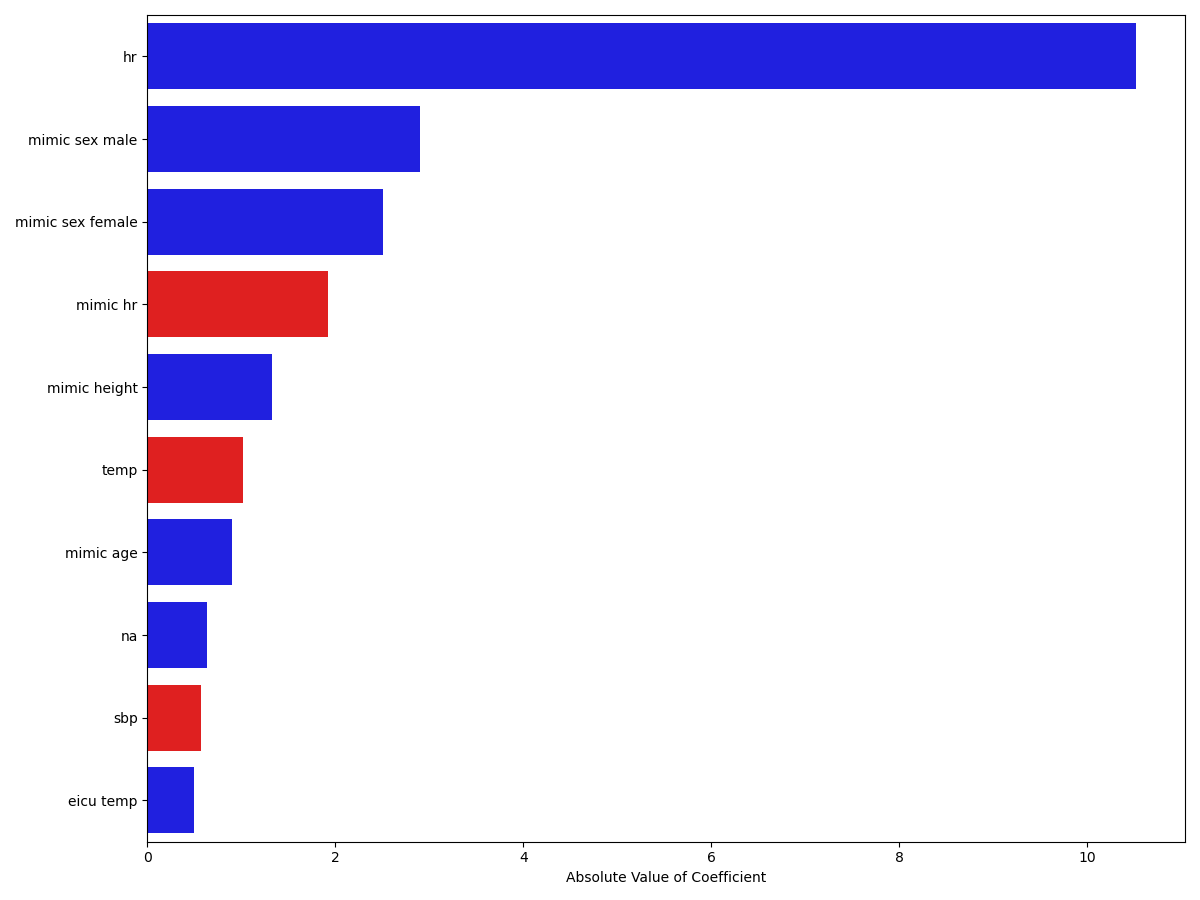
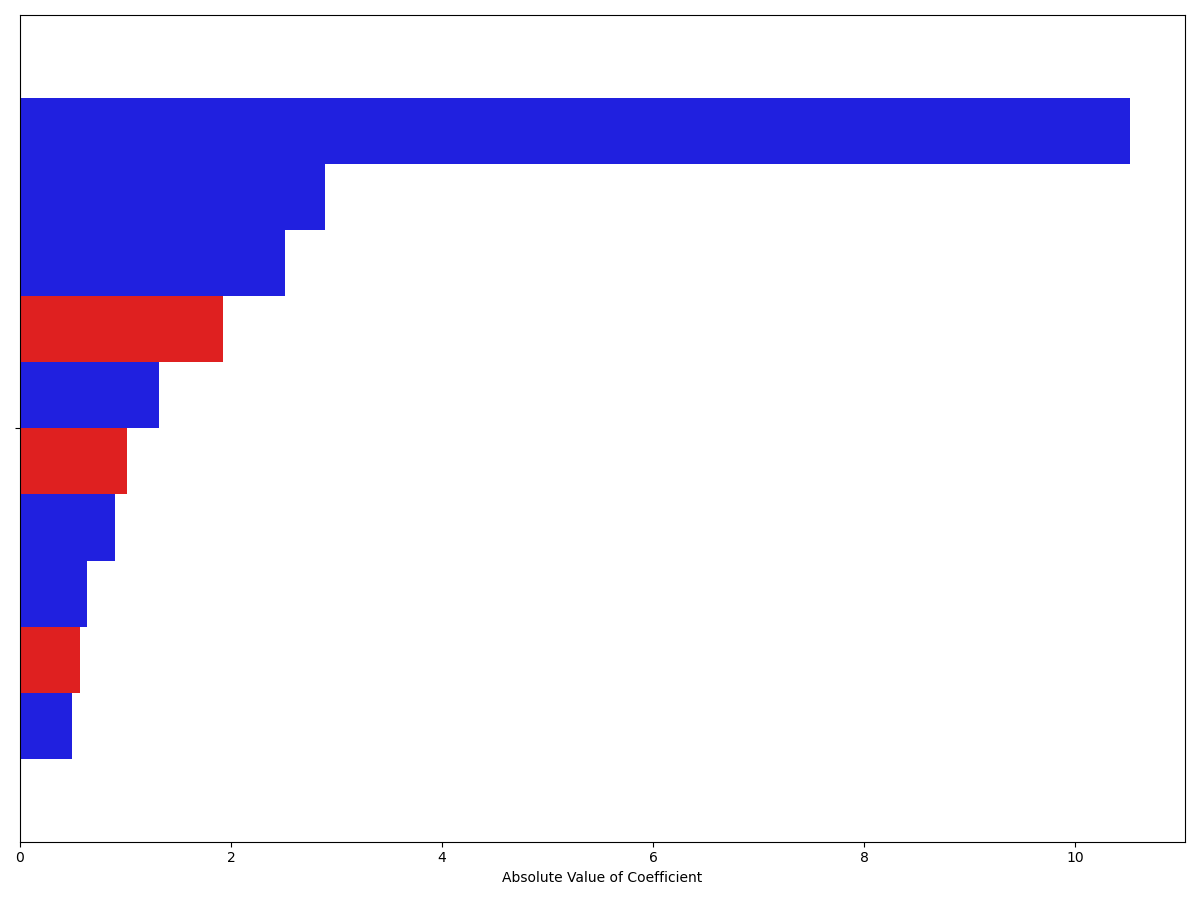
fix merge conflict

Changed region(s): [[0.0, 0.0, 0.9558, 0.9333], [0.4317, 0.9644, 0.6475, 0.9956], [0.8942, 0.9333, 0.925, 0.9644]]

diff --git a/Feature Selection/DSL_profiles.py b/Feature Selection/DSL_profiles.py
@@ -1,6 +1,7 @@
 '''
     This code calculates and plots the Data Shared Lasso profiles of predictor variables when using outcome as response variable.
     The profiles of the shared effects are plotted and sepearetly the profiles of the group estimates.
+    Running this code requires CATEGORICAL_COLUMNS = ['sex', 'source'] in constants.py
 '''
 
 import sys
@@ -12,36 +13,33 @@ import numpy as np
 import pandas as pd
 import matplotlib.pyplot as plt
 
-from sklearn.linear_model import lars_path, LinearRegression
 from sklearn.compose import ColumnTransformer
-from sklearn.model_selection import GridSearchCV
 from sklearn.preprocessing import PolynomialFeatures
+from sklearn.linear_model import lars_path
 from sklearn.pipeline import Pipeline
 
-from preprocessing import make_feature_preprocessing
 from constants import CATEGORICAL_COLUMNS
 from icu_experiments.load_data import load_data_for_prediction
+from preprocessing import make_feature_preprocessing
 
-outcome = 'map'
+outcome = 'hr'
 method = 'lasso'
 
 data = load_data_for_prediction(outcome=outcome)
-
 _Xydata = {source: data[source]['train'][lambda x: (x['sex'].eq('Male'))|(x['sex'].eq('Female'))] for source in ['eicu', 'mimic', 'miiv', 'hirid']}
 
+# Preprocessing of individual groups
 Preprocessor = ColumnTransformer(
     transformers=make_feature_preprocessing(missing_indicator=False)
     ).set_output(transform="pandas")
 
 _Xytrain = pd.concat([_Xydata[source] for source in ['eicu', 'mimic', 'miiv', 'hirid']], ignore_index=True)
-
+_Xtrain = pd.concat([Preprocessor.fit_transform(_Xydata[source]) for source in ['eicu', 'mimic', 'miiv', 'hirid']], ignore_index=True)
+_Xtrain.fillna(0, inplace=True)
 _ytrain = _Xytrain['outcome']
 y_mean = _ytrain.mean()
-_Xtrain = Preprocessor.fit_transform(_Xytrain)
-'''
-_Xtrain = pd.concat([Preprocessor.fit_transform(_Xydata[source]) for source in ['eicu', 'mimic', 'miiv', 'hirid']], ignore_index=True)
-_Xtrain.fillna(0, inplace=True)'''
 
+# Start generating the augmented dataset
 interactions = ColumnTransformer(
     [
         (
@@ -77,36 +75,35 @@ interactions = ColumnTransformer(
     ]
 )
 
-pipeline = Pipeline(
-    steps=[("interactions", interactions)]
-    ).set_output(transform="pandas")
+_Xtrain_augmented = interactions.fit_transform(_Xtrain) 
 
-_Xtrain_augmented = pipeline.fit_transform(_Xtrain) 
-
-r = 1/np.sqrt(len(['eicu', 'mimic', 'miiv', 'hirid']))
+# Control degree of sharing
+r_g = {source: len(_Xydata[source])/len(_Xtrain) for source in ['eicu', 'mimic', 'miiv', 'hirid']}
 
 for column in _Xtrain_augmented.columns: 
     if 'passthrough' not in column: 
-        _Xtrain_augmented[column] = r*_Xtrain_augmented[column]
+        if 'eicu' in column: 
+            _Xtrain_augmented[column] = 1/np.sqrt(r_g['eicu'])*_Xtrain_augmented[column]
+        elif 'mimic' in column:
+            _Xtrain_augmented[column] = 1/np.sqrt(r_g['mimic'])*_Xtrain_augmented[column]
+        elif 'miiv' in column:
+            _Xtrain_augmented[column] = 1/np.sqrt(r_g['miiv'])*_Xtrain_augmented[column]
+        elif 'hirid' in column: 
+            _Xtrain_augmented[column] = 1/np.sqrt(r_g['hirid'])*_Xtrain_augmented[column]
     
-
-
+# Calculate the Lasso profiles
 print(f"Computing regularization path using LARS on DSL ...")
 alphas, active, coefs = lars_path(_Xtrain_augmented.to_numpy(), _ytrain.to_numpy() - y_mean, method=method, verbose=True)
 
-coefs_shared = coefs[:51, :]
-
+# Print and plot Lasso path of common effects against shrinkage factor
+coefs_shared = coefs[:51, :] # shared effects
 fig, ax = plt.subplots(figsize=(15,9))
-
 xx = np.sum(np.abs(coefs_shared.T), axis=1)
 xx /= xx[-1]
-
 feature_indices = np.argsort(np.abs(coefs_shared[:, -1]))[-4:]
 feature_names = [list(_Xtrain_augmented.columns)[i] for i in feature_indices]
 xmax = max(xx)
-    
 print('common effects: ', feature_names)
-
 ax.plot(xx, coefs_shared.T)
 ymin, ymax = ax.get_ylim()
 ax.vlines(xx, ymin, ymax, linestyle="dashed", alpha=0.1)
@@ -114,31 +111,24 @@ ax.set_xlabel("|coef| / max|coef|")
 ax.set_ylabel("Coefficients")
 ax.set_title(f"LASSO Path of shared coeffs in DSL")
 ax.axis("tight")
-
 fig.suptitle(f"Target: {outcome}", fontweight='bold', fontsize=15)
 plt.tight_layout()  # Adjust the layout
-plt.savefig('images/common_effects_DSL_preprocessed_individ.png')
+plt.savefig(f'images/{outcome}_common_effects_DSL_preprocessed_individ.png')
 plt.show()
 plt.close()
 
+# Print and plot Lasso path of group effects against shrinkage factor
 fig, axs = plt.subplots(2, 2, figsize=(15,9))
-
 for i, source in enumerate(['eicu', 'mimic', 'miiv', 'hirid']): 
-
     _coefs = coefs[(1+i)*51:(2+i)*51, :]
-
     row, col = divmod(i, 2)
     ax = axs[row, col]
-
     xx = np.sum(np.abs(_coefs.T), axis=1)
     xx /= xx[-1]
-
     feature_indices = np.argsort(np.abs(_coefs[:, -1]))[-4:]
     feature_names = [list(_Xtrain_augmented.iloc[:, (1+i)*51:(2+i)*51].columns)[j] for j in feature_indices]
     xmax = max(xx)
-        
     print(f'{source} effects: ', feature_names)
-
     ax.plot(xx, _coefs.T)
     ymin, ymax = ax.get_ylim()
     ax.vlines(xx, ymin, ymax, linestyle="dashed", alpha=0.1)
@@ -146,8 +136,7 @@ for i, source in enumerate(['eicu', 'mimic', 'miiv', 'hirid']):
     ax.set_ylabel("Coefficients")
     ax.set_title(f"LASSO Path of DSL on {source}")
     ax.axis("tight")
-
 fig.suptitle(f"Target: {outcome}", fontweight='bold', fontsize=15)
 plt.tight_layout()  # Adjust the layout
-plt.savefig('images/individual_groups_DSL_preprocessed_individ.png')
+plt.savefig(f'images/{outcome}_individual_groups_DSL_preprocessed_individ.png')
 plt.show()

diff --git a/Feature Selection/profiles.py b/Feature Selection/profiles.py
@@ -1,7 +1,9 @@
-''' This code calculates and plots the Lasso profiles of predictor variables when using outcome as response variable. 
+''' 
+    This code calculates and plots the Lasso profiles of predictor variables when using outcome as response variable. 
     The names of the four most important features are included in the plot.
     A figure containing the profiles on each data source will be shown at the end. Moreover, the profiles are shown when we 
-    use all data sources at once. 
+    use all data sources at once.
+    Running this code requires CATEGORICAL_COLUMNS = ['sex'] in constants.py
 '''
 
 import sys
@@ -13,10 +15,8 @@ import numpy as np
 import pandas as pd
 import matplotlib.pyplot as plt
 
-from sklearn.linear_model import lars_path, LinearRegression
+from sklearn.linear_model import lars_path
 from sklearn.compose import ColumnTransformer
-from sklearn.model_selection import GridSearchCV
-from sklearn.pipeline import Pipeline
 
 from preprocessing import make_feature_preprocessing
 from constants import CATEGORICAL_COLUMNS
@@ -32,10 +32,9 @@ Preprocessor = ColumnTransformer(
     transformers=make_feature_preprocessing(missing_indicator=False)
     ).set_output(transform="pandas")
 
+# Print and plot Lasso profiles on each dataset individually
 fig, axs = plt.subplots(2,2, figsize=(15,9))
-
 for i, source in enumerate(['eicu', 'mimic', 'miiv', 'hirid', 'all']): 
-
     if source == 'all': 
         fig.suptitle(f"Target: {outcome}", fontweight='bold', fontsize=15)
         plt.tight_layout()  # Adjust the layout
@@ -58,10 +57,8 @@ for i, source in enumerate(['eicu', 'mimic', 'miiv', 'hirid', 'all']):
 
     print(f"Computing regularization path using the LARS on {source} ...")
     alphas, active, coefs = lars_path(_Xtrain.to_numpy(), _y.to_numpy()-y_mean, method=method, verbose=True)
-
     xx = np.sum(np.abs(coefs.T), axis=1)
     xx /= xx[-1]
-    
     ax.plot(xx, coefs.T)
     ymin, ymax = ax.get_ylim()
     ax.vlines(xx, ymin, ymax, linestyle="dashed", alpha=0.1)
@@ -70,7 +67,7 @@ for i, source in enumerate(['eicu', 'mimic', 'miiv', 'hirid', 'all']):
     ax.set_title(f"LASSO Path - {source}")
     ax.axis("tight")
     
-    # Identify the indices of the four largest coefficients in the last step
+    # Identify the indices of the four largest coefficients
     if source == 'eicu':    
         feature_indices = np.argsort(np.abs(coefs[:, -1]))[-4:]
     elif source == 'hirid':
@@ -79,16 +76,15 @@ for i, source in enumerate(['eicu', 'mimic', 'miiv', 'hirid', 'all']):
         feature_indices = np.argsort(np.abs(coefs[:, -1]))[-4:]
 
     print(f'Four most important features on {source}: {[list(_Xtrain.columns)[i] for i in np.argsort(np.abs(coefs[:, -1]))[-6:]]}')
-    # Assuming you have a way to map these indices to original feature names
+
     feature_names = [list(_Xtrain.columns)[i] for i in feature_indices]
 
     xmax = max(xx)
     
+    # Add feature names to plot
     for i, feature_index in enumerate(feature_indices):
         y_pos = coefs[feature_index, -1]
-
         if source == 'hirid':
-            # Place annotation closer to the line's end
             if feature_names[i] == "categorical__sex_Male":
                 ax.annotate(feature_names[i], xy=(xmax, y_pos), xytext=(5, -5), 
                         textcoords="offset points", ha='left', va='center')
@@ -98,7 +94,6 @@ for i, source in enumerate(['eicu', 'mimic', 'miiv', 'hirid', 'all']):
             else:
                 ax.annotate(feature_names[i], xy=(xmax, y_pos), xytext=(5, 0), 
                         textcoords="offset points", ha='left', va='center')
-                
         elif source == 'all':
             if feature_names[i] == "categorical__sex_Male":
                 ax.annotate(feature_names[i], xy=(xmax, y_pos), xytext=(5, +3), 
@@ -109,10 +104,7 @@ for i, source in enumerate(['eicu', 'mimic', 'miiv', 'hirid', 'all']):
             else:
                 ax.annotate(feature_names[i], xy=(xmax, y_pos), xytext=(5, 0), 
                         textcoords="offset points", ha='left', va='center')
-                
-        
-        else: 
-            # Place annotation closer to the line's end
+        else:
             if feature_names[i] == "categorical__sex_Male":
                 ax.annotate(feature_names[i], xy=(xmax, y_pos), xytext=(5, 5), 
                         textcoords="offset points", ha='left', va='center')

diff --git a/Feature Selection/DSL_barplot.py b/Feature Selection/DSL_barplot.py
@@ -3,7 +3,8 @@
     Positive coefficients are blue and negative coefficients are red. 
     The penalty term alpha is chosen via cross-validation. 
     The degree of sharing is controlled using r_g. The value of r_g is the relative size of the group to the entire dataset, i.e. larger groups are forced to 
-    share more than smaller groups. Each group is preprocessed individually. 
+    share more than smaller groups. Each group is preprocessed individually.
+    Running this code requires CATEGORICAL_COLUMNS = ['sex', 'source'] in constants.py
 '''
 
 import sys
@@ -116,7 +117,7 @@ coef_df.sort_values(by='abs_coefs', inplace=True, ascending=False)
 names = ['hr', 'mimic sex male', 'mimic sex female', 'mimic hr', 'mimic height', 'temp', 'mimic age', 'na', 'sbp', 'eicu temp']
 
 plt.figure(figsize=(12,9))
-sns.barplot(x=coef_df["abs_coefs"].iloc[:10], y=names, orient="h", palette=color_palette[:10])
+sns.barplot(x=coef_df["abs_coefs"].iloc[:10], y=names, hue=names, orient="h", palette=color_palette[:10], legend=False, alpha=0.5)
 plt.xlabel("Absolute Value of Coefficient")
 plt.tight_layout()
 plt.savefig(f'images/DSL/Barplot_coefs_{outcome}.png')
